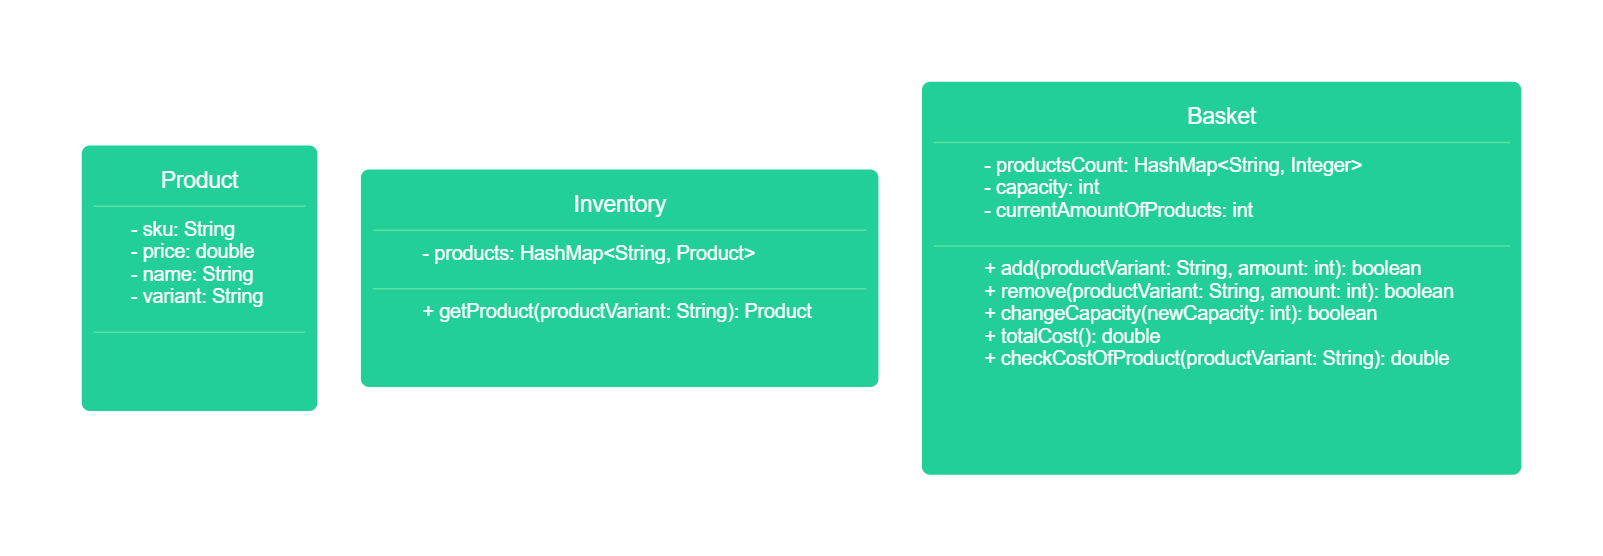
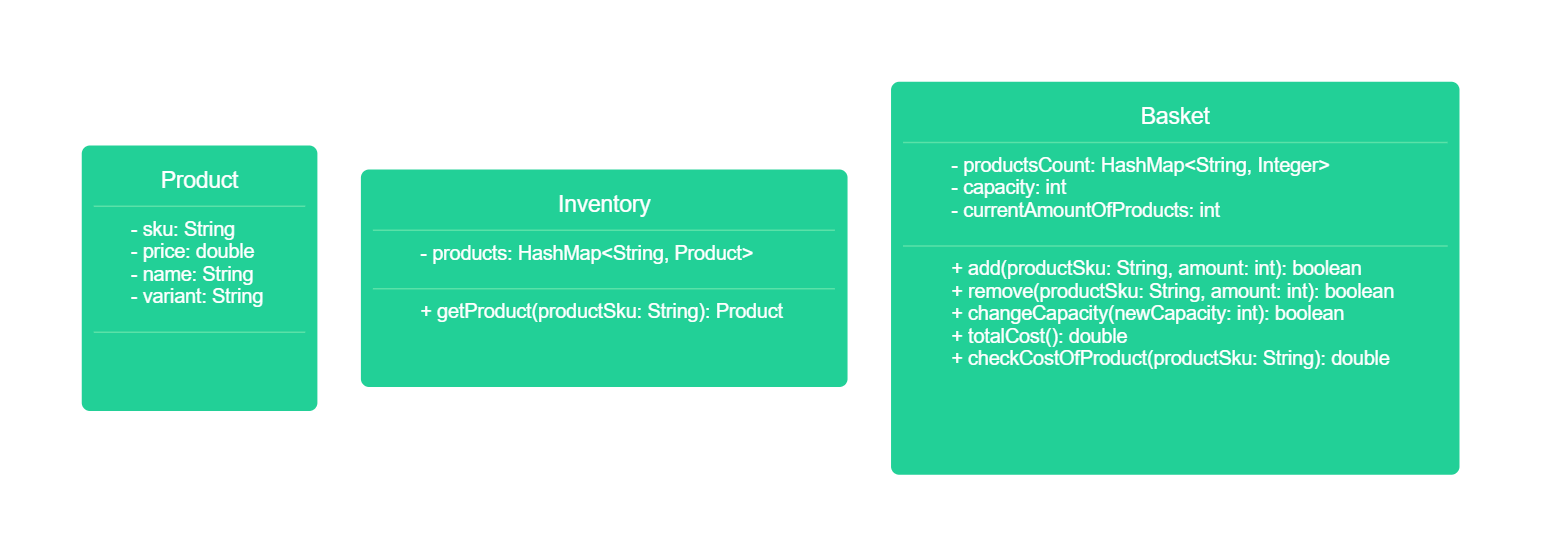
Rename files and add domain-model-extension.md

diff --git a/src/main/java/com/booleanuk/core/Basket.java b/src/main/java/com/booleanuk/core/Basket.java
@@ -13,27 +13,27 @@ public class Basket {
         currentAmountOfProducts = 0;
     }
 
-    public boolean add(String productVariant, int amount){
-        if (amount <= 0 || amount + currentAmountOfProducts > capacity || !Inventory.getProducts().containsKey(productVariant))
+    public boolean add(String productSKu, int amount){
+        if (amount <= 0 || amount + currentAmountOfProducts > capacity || !Inventory.getProducts().containsKey(productSKu))
             return false;
 
-        if (productsCount.containsKey(productVariant))
-            productsCount.put(productVariant, productsCount.get(productVariant) + amount);
+        if (productsCount.containsKey(productSKu))
+            productsCount.put(productSKu, productsCount.get(productSKu) + amount);
         else
-            productsCount.put(productVariant, amount);
+            productsCount.put(productSKu, amount);
 
         currentAmountOfProducts += amount;
         return true;
     }
 
-    public boolean remove(String productVariant, int amount){
-        if (amount <= 0 || !productsCount.containsKey(productVariant) || productsCount.get(productVariant) < amount)
+    public boolean remove(String productSKu, int amount){
+        if (amount <= 0 || !productsCount.containsKey(productSKu) || productsCount.get(productSKu) < amount)
             return false;
 
-        productsCount.put(productVariant, productsCount.get(productVariant) - amount);
+        productsCount.put(productSKu, productsCount.get(productSKu) - amount);
 
-        if (productsCount.get(productVariant) == 0)
-            productsCount.remove(productVariant);
+        if (productsCount.get(productSKu) == 0)
+            productsCount.remove(productSKu);
 
         currentAmountOfProducts -= amount;
         return true;
@@ -57,13 +57,13 @@ public class Basket {
         return cost;
     }
 
-    public double checkCostOfProduct(String productVariant){
+    public double checkCostOfProduct(String productSKu){
         var products = Inventory.getProducts();
 
-        if (!products.containsKey(productVariant))
+        if (!products.containsKey(productSKu))
             return 0.0d;
 
-        return products.get(productVariant)
+        return products.get(productSKu)
                 .getPrice();
     }
 }

diff --git a/src/main/java/com/booleanuk/extension/Inventory.java b/src/main/java/com/booleanuk/extension/Inventory.java
@@ -1,0 +1,28 @@
+package com.booleanuk.extension;
+
+import java.util.HashMap;
+
+public class Inventory {
+    private static final HashMap<String, Product> products = new HashMap<>() {{
+        put("BGLO", new Product("BGLO", 0.49d, "Bagle", "Onion"));
+        put("BGLP", new Product("BGLP", 0.39d, "Bagle", "Plain"));
+        put("BGLE", new Product("BGLE", 0.49d, "Bagle", "Everything"));
+        put("BGLS", new Product("BGLS", 0.49d, "Bagle", "Sesame"));
+
+        put("COFB", new Product("COFB", 0.99d, "Coffee", "Black"));
+        put("COFW", new Product("COFW", 1.19d, "Coffee", "White"));
+        put("COFC", new Product("COFC", 1.29d, "Coffee", "Capuccino"));
+        put("COFL", new Product("COFL", 1.29d, "Coffee", "Latte"));
+
+        put("FILB", new Product("FILB", 0.12d, "Filling", "Bacon"));
+        put("FILE", new Product("FILE", 0.12d, "Filling", "Egg"));
+        put("FILC", new Product("FILC", 0.12d, "Filling", "Cheese"));
+        put("FILX", new Product("FILX", 0.12d, "Filling", "Cream Cheese"));
+        put("FILS", new Product("FILS", 0.12d, "Filling", "Smoked Salmon"));
+        put("FILH", new Product("FILH", 0.12d, "Filling", "Ham"));
+    }};
+
+    public static HashMap<String, Product> getProducts() {
+        return products;
+    }
+}

diff --git a/src/main/java/com/booleanuk/extension/Basket.java b/src/main/java/com/booleanuk/extension/Basket.java
@@ -4,13 +4,13 @@ import com.booleanuk.core.Inventory;
 
 import java.util.HashMap;
 
-public class ExtensionBasket {
+public class Basket {
     private final HashMap<String, Integer> productsCount;
     private int capacity;
     private int currentAmountOfProducts;
 
-    public ExtensionBasket(int capacity) {
-        productsCount = new HashMap<String, Integer>();
+    public Basket(int capacity) {
+        productsCount = new HashMap<>();
         this.capacity = capacity;
         currentAmountOfProducts = 0;
     }

diff --git a/src/main/java/com/booleanuk/extension/Product.java b/src/main/java/com/booleanuk/extension/Product.java
@@ -1,12 +1,12 @@
 package com.booleanuk.extension;
 
-public class ExtensionProduct {
+public class Product {
     private String sku;
     private double price;
     private String name;
     private String variant;
 
-    public ExtensionProduct(String sku, double price, String name, String variant) {
+    public Product(String sku, double price, String name, String variant) {
         this.sku = sku;
         this.price = price;
         this.name = name;

diff --git a/domain-model-extension.md b/domain-model-extension.md
@@ -1,0 +1,26 @@
+| Class  | Field                                  | Method                                        | Condition                                                                                 | Output                           |
+|--------|----------------------------------------|-----------------------------------------------|-------------------------------------------------------------------------------------------|----------------------------------|
+| Basket | Hashmap<String, Integer> productsCount | boolean add(String productSku, int amount)    | if there are less products in total than capacity                                         | true                             |
+|        |                                        |                                               | if there are more products in total than capacity or the productSKu is N/A or amount <= 0 | false                            |
+|        | int capacity                           |                                               |                                                                                           |                                  |
+|        | int currentAmountOfProducts            | boolean remove(String productSku, int amount) | if the amount of products of sku in basket is >= amount                                   | true                             |
+|        |                                        |                                               | if the amount of products of sku in basket is < amount or amount <= 0                     | false                            |
+|        |                                        | boolean changeCapacity(int newCapacity)       | if newCapacity >= currentAmount                                                           | true                             |
+|        |                                        |                                               | if newCapacity < currentAmount                                                            | false                            |
+|        |                                        | double totalCost()                            | always                                                                                    | total cost of products in basket |
+|        |                                        | double checkCostOfProduct(String productSku)  | always                                                                                    | cost of product by sku           |
+
+| Class   | Field          | Method | Condition | Output |
+|---------|----------------|--------|-----------|--------|
+| Product | String sku     |        |           |        |
+|         | double price   |        |           |        |
+|         | String name    |        |           |        |
+|         | String variant |        |           |        |
+
+
+| Class     | Field                             | Method                                                                         | Condition                         | Output          |
+|-----------|-----------------------------------|--------------------------------------------------------------------------------|-----------------------------------|-----------------|
+| Inventory | Hashmap<String, Product> products | Product getProduct(String productSku)                                          | if product exist in the inventory | Product product |
+|           |                                   |                                                                                | if product doesn't exists         | null            |
+|           |                                   | double getDiscount(String productSku, HashMap<String, Integer> basketProducts) |                                   | double          |
+
